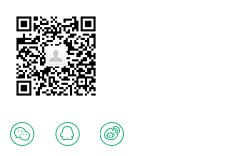
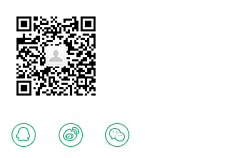
任务八修改

diff --git a/task8/css/page.css b/task8/css/page.css
@@ -109,21 +109,21 @@ header .login {
 }
 
 .login .sina {
-    width: 25px;
-    height: 24px;
-    background: url(../images/bg.png) -100px -122px;
+    width: 27px;
+    height: 26px;
+    background: url(../images/bg.png) -57px -122px;
 }
 
 .login .qq {
-    width: 25px;
-    height: 24px;
-    background: url(../images/bg.png) -55px -122px;
+    width: 27px;
+    height: 26px;
+    background: url(../images/bg.png) -10px -122px;
 }
 
 .login .wechat {
-    width: 25px;
-    height: 24px;
-    background: url(../images/bg.png) -10px -122px;
+    width: 27px;
+    height: 26px;
+    background: url(../images/bg.png) -104px -122px;
 }
 
 .login > * {
